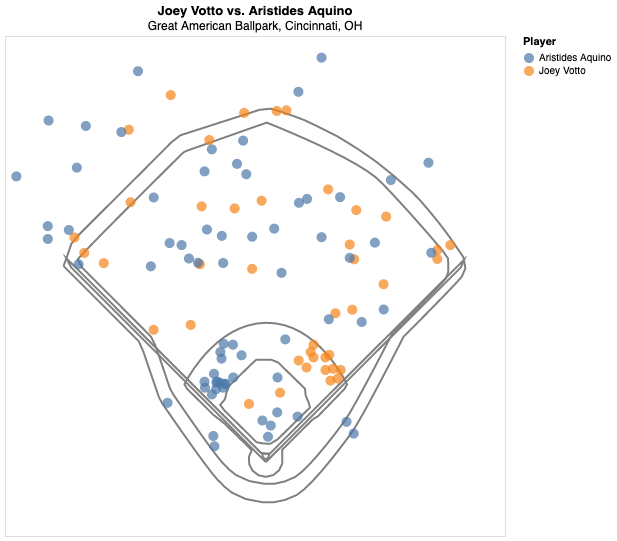
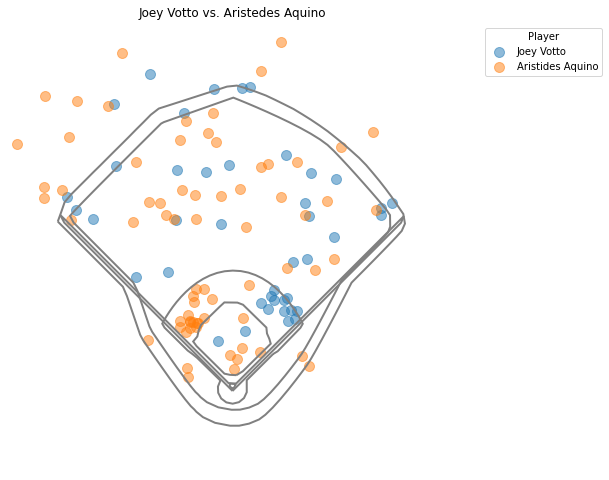
Remove altair and use pyplot (#183)
* Remove altair and use pyplot by default

* Raise possible statcast errors

* Check single games for errors too

diff --git a/pybaseball/plotting.py b/pybaseball/plotting.py
@@ -1,126 +1,168 @@
-import altair as alt
-import pandas as pd
 from pathlib import Path
+from typing import List, Optional
+import warnings
+
+from matplotlib import axes
+from matplotlib import patches
+import matplotlib.path
 import matplotlib.pyplot as plt
 import numpy as np
-from typing import Optional, Tuple
 import pandas as pd
 
-
 CUR_PATH = Path(__file__).resolve().parent
-STADIUM_COORDS = pd.read_csv(
-    Path(CUR_PATH, 'data', 'mlbstadiums.csv'), index_col=0
-)
+STADIUM_COORDS = pd.read_csv(Path(CUR_PATH, 'data', 'mlbstadiums.csv'), index_col=0)
+
 # transform over x axis
 STADIUM_COORDS['y'] *= -1
 
 
-def plot_stadium(team):
+def plot_stadium(team: str, title: Optional[str] = None, width: Optional[int] = None,
+                 height: Optional[int] = None, axis: Optional[axes.Axes] = None) -> axes.Axes:
     """
-    Plot the outline of the specified team's stadium using MLBAM coordinates
+    Plot the outline of the specified team's stadium using MLBAM coordinates (using pyplot)
 
-    Parameters
-    ----------
-    team: name of team whose stadium you want plotted
+    
+    Args:
+        team: (str)
+            Team whose stadium will be plotted
+        title: (str), default = name of team
+            Optional: Title of plot
+        width: (int), default = 5 inches
+            Optional: Width of plot
+        height: (int), default = 5 inches
+            Optional: Height of plot
+        axis: (matplotlib.axis.Axes), default = None
+            Optional: Axes to plot the stadium against. If None, a new Axes will be created
+
+    Returns:
+        A matplotlib.axes.Axes object that was used to generate the stadium render
     """
     coords = STADIUM_COORDS[STADIUM_COORDS['team'] == team.lower()]
-    name = list(coords['name'])[0]
-    location = list(coords['location'])[0]
-    title = {'text': [name], 'subtitle': [location]}
-    if team == 'generic':
-        title = 'Generic Stadium'
-    stadium = alt.Chart(coords, title=title).mark_line().encode(
-        x=alt.X('x', axis=None, scale=alt.Scale(zero=True)),
-        y=alt.Y('y', axis=None, scale=alt.Scale(zero=True)),
-        color=alt.Color(
-            'segment', scale=alt.Scale(range=['grey']), legend=None
-        ),
-        order='segment'
-    )
 
-    return stadium
+    if not axis:
+        name = list(coords['name'])[0]
+
+        stadium = plt.figure()
+        if width is not None and height is not None:
+            stadium.set_size_inches(width / stadium.dpi, height / stadium.dpi)
+        else:
+            stadium.set_size_inches(5, 5)
+        axis = stadium.add_axes([0.0, 0.0, 1.0, 1.0], frameon=False, aspect=1)  # Centering
+
+        axis.set_xlim(0, 250)
+        axis.set_ylim(-250, 0)
+
+        axis.set_xticks([])
+        axis.set_yticks([])
+
+    segments = set(coords['segment'])
+
+    for segment in segments:
+        segment_verts = coords[coords['segment'] == segment][['x', 'y']]
+        path = matplotlib.path.Path(segment_verts)
+        patch = patches.PathPatch(path, facecolor='None', edgecolor='grey', lw=2)
+        axis.add_patch(patch)
+
+    if title is None:
+        _title = name
+        if team == 'generic':
+            _title = 'Generic Stadium'
+
+        plt.title(_title)
+    else:
+        plt.title(title)
+
+    return axis
 
 
-def spraychart(data, team_stadium, title='', tooltips=[], size=100,
-               colorby='events', legend_title='', width=500, height=500):
+def spraychart(data: pd.DataFrame, team_stadium: str, title: str = '', tooltips: Optional[List['str']] = None,  # pylint: disable=too-many-arguments
+               size: int = 100, colorby: str = 'events', legend_title: str = '', width: int = 500,
+               height: int = 500) -> axes.Axes:
     """
     Produces a spraychart using statcast data overlayed on specified stadium
 
-    Parameters
-    ----------
-    data: statcast batter data
-    team_stadium: team whose stadium the hits will be overlaid on
-    title: title of plot
-    tooltips: list of variables in data to include as tooltips
-    size: size of marks on plot
-    colorby: which category to color the mark with. Events or player name.
-           must be 'events' or 'player'
-    legend_title: optional title for the legend
-    width: width of plot
-    height: height of plot
+    
+    Args:
+        data: (pandas.DataFrame)
+            StatCast pandas.DataFrame of StatCast batter data
+        team_stadium: (str)
+            Team whose stadium the hits will be overlaid on
+        title: (str), default = ''
+            Optional: Title of plot
+        tooltips: (List[str]), default = None
+            Optional: List of variables in data to include as tooltips (Deprecated)
+        size: (int), default = 100
+            Optional: Size of hit circles on plot
+        colorby: (str), default = 'events'
+            Optional: Which category to color the mark with. 'events','player', or a column within data
+        legend_title: (str), default = based on colorby
+            Optional: Title for the legend
+        width: (int), default = 500
+            Optional: Width of plot (not counting the legend)
+        height: (int), default = 500
+            Optional: Height of plot
+
+    Returns:
+        A matplotlib.axes.Axes object that was used to generate the stadium render and the spraychart
     """
 
     # pull stadium plot to overlay hits on
-    base = plot_stadium(team_stadium)
-    if team_stadium != 'generic':
-        _title = {
-            'text': [title],
-            'subtitle': [
-                f'{base.title["text"][0]}, {base.title["subtitle"][0]}'
-            ]
-        }
-    else:
-        _title = {
-            'text': [title],
-            'subtitle': ['Generic Stadium']
-        }
-    # remove stadium plot title
-    base.title = ''
+    base = plot_stadium(team_stadium, title, width-50, height)
+
     # only plot pitches where something happened
-    sub_data = data[data['events'].notna()].copy()
+    sub_data = data.copy().reset_index(drop=True)
+    sub_data = sub_data[sub_data['events'].notna()][sub_data['hc_x'].notna()][sub_data['hc_y'].notna()]
     if colorby == 'events':
         sub_data['event'] = sub_data['events'].str.replace('_', ' ').str.title()
         color_label = 'event'
-        legend_title = 'Outcome'
+        if not legend_title:
+            legend_title = 'Outcome'
     elif colorby == 'player':
         color_label = 'player_name'
-        legend_title = 'Player'
+        if not legend_title:
+            legend_title = 'Player'
     else:
         color_label = colorby
+        if not legend_title:
+            legend_title = colorby
+
     # scatter plot of hits
-    scatter = alt.Chart(sub_data, title=_title).mark_circle(size=size).encode(
-        x=alt.X('hc_x:Q', axis=None, scale=alt.Scale(zero=True)),
-        y=alt.Y('y:Q', axis=None, scale=alt.Scale(zero=True)),
-        color=alt.Color(
-            color_label, legend=alt.Legend(title=legend_title)
-        )
-    ).transform_calculate(
-        y='datum.hc_y * -1'
-    )
+    scatters = []
+    for color in sub_data[color_label].unique():
+        color_sub_data = sub_data[sub_data[color_label] == color]
+        scatters.append(base.scatter(
+            color_sub_data["hc_x"], color_sub_data['hc_y'].mul(-1), size, label=color, alpha=0.5
+        ))
+
     if tooltips:
-        scatter = scatter.encode(tooltip=tooltips)
+        warnings.warn(
+            "Tooltips are disabled in the pyplot version of spraychart and will be removed in the future",
+            category=DeprecationWarning
+        )
 
-    plot = alt.layer(base, scatter).resolve_scale(color='independent')
-    plot.width = width
-    plot.height = height
-    del sub_data
+    plt.legend(handles=scatters, title=legend_title, bbox_to_anchor=(1.05, 1), loc='upper left')
 
-    return plot
+    plt.draw()
+
+    plt.show()
+
+    return base
 
 
-def plot_bb_profile(df: pd.DataFrame, parameter: Optional[str] = "launch_angle"):
+def plot_bb_profile(df: pd.DataFrame, parameter: Optional[str] = "launch_angle") -> None:
     """Plots a given StatCast parameter split by bb_type
 
     Args:
-        df (pd.DataFrame): StatCast pd.DataFrame (retrieved through statcast, statcast_batter, etc)
-        parameter (Optional[str], optional): Parameter to plot. Defaults to "launch_angle".
+        df: (pandas.DataFrame)
+            pandas.DataFrame of StatCast batter data (retrieved through statcast, statcast_batter, etc)
+        parameter: (str), default = 'launch_angle'
+            Optional: Parameter to plot
     """
 
     bb_types = df["bb_type"].dropna().unique()
-    
+
     for bb_type in bb_types:
         df_skimmed = df[df.bb_type == bb_type]
         bins = np.arange(df_skimmed[parameter].min(), df_skimmed[parameter].max(), 2)
-        plt.hist(df_skimmed[parameter], bins=bins, alpha=0.5, label=bb_type.replace("_"," ").capitalize())
+        plt.hist(df_skimmed[parameter], bins=bins, alpha=0.5, label=bb_type.replace("_", " ").capitalize())
         plt.tick_params(labelsize=12)
-

diff --git a/pybaseball/statcast.py b/pybaseball/statcast.py
@@ -16,6 +16,8 @@ _SC_SINGLE_GAME_REQUEST = "/statcast_search/csv?all=true&type=details&game_pk={g
 _SC_SMALL_REQUEST = "/statcast_search/csv?all=true&hfPT=&hfAB=&hfBBT=&hfPR=&hfZ=&stadium=&hfBBL=&hfNewZones=&hfGT=R%7CPO%7CS%7C=&hfSea=&hfSit=&player_type=pitcher&hfOuts=&opponent=&pitcher_throws=&batter_stands=&hfSA=&game_date_gt={start_dt}&game_date_lt={end_dt}&team={team}&position=&hfRO=&home_road=&hfFlag=&metric_1=&hfInn=&min_pitches=0&min_results=0&group_by=name&sort_col=pitches&player_event_sort=h_launch_speed&sort_order=desc&min_abs=0&type=details&"
 # _MAX_SC_RESULTS = 40000
 
+class StatcastException(Exception):
+    pass
 
 @cache.df_cache(expires=365)
 def _small_request(start_dt: date, end_dt: date, team: Optional[str] = None) -> pd.DataFrame:
@@ -23,6 +25,9 @@ def _small_request(start_dt: date, end_dt: date, team: Optional[str] = None) -> 
         _SC_SMALL_REQUEST.format(start_dt=str(start_dt), end_dt=str(end_dt), team=team if team else '')
     )
     if data is not None and not data.empty:
+        if 'error' in data.columns:
+            raise StatcastException(data['error'].values[0])
+
         data = data.sort_values(
             ['game_date', 'game_pk', 'at_bat_number', 'pitch_number'],
             ascending=False
@@ -109,6 +114,12 @@ def statcast_single_game(game_pk: Union[str, int]) -> pd.DataFrame:
     data = statcast_ds.get_statcast_data_from_csv_url(
         _SC_SINGLE_GAME_REQUEST.format(game_pk=game_pk)
     )
+
+    if data is None or data.empty:
+        return None
+
+    if 'error' in data.columns:
+        raise StatcastException(data['error'].values[0])
 
     return data.sort_values(
         ['game_date', 'game_pk', 'at_bat_number', 'pitch_number'],

diff --git a/tests/integration/pybaseball/test_statcast_batter.py b/tests/integration/pybaseball/test_statcast_batter.py
@@ -31,13 +31,15 @@ def test_statcast_batter() -> None:
     assert len(result) == 2418
 
 def test_statcast_batter_expected_stats() -> None:
-    result: pd.DataFrame = statcast_batter_expected_stats(2019)
+    min_pa = 250
+    result: pd.DataFrame = statcast_batter_expected_stats(2019, min_pa)
 
     assert result is not None
     assert not result.empty
 
     assert len(result.columns) == 15
-    assert len(result) == 250
+    assert len(result) > 0
+    assert len(result[result['pa'] < min_pa]) == 0
 
 def test_statcast_batter_percentile_ranks() -> None:
     result: pd.DataFrame = statcast_batter_percentile_ranks(2019)

diff --git a/tests/pybaseball/conftest.py b/tests/pybaseball/conftest.py
@@ -120,8 +120,12 @@ def get_data_file_contents(data_dir: str) -> Callable[[str], str]:
             ARGUMENTS:
             filename    : str : the name of the file within the tests data directory to get the contents of
         """
-        with open(os.path.join(data_dir, filename)) as _file:
-            return _file.read()
+        with open(os.path.join(data_dir, filename), 'rb') as _file:
+            data = _file.read()
+            try:
+                return data.decode('ascii')
+            except UnicodeDecodeError:
+                return data.decode('utf-8')
 
     return get_contents
 

diff --git a/pybaseball/split_stats.py b/pybaseball/split_stats.py
@@ -55,7 +55,7 @@ def get_player_info(playerid: str, soup: bs.BeautifulSoup = None) -> Dict:
             r = InfoRegex.findall(str(ptags[j]))
             # This loop cleans up the text found in the outer loop and removes non alphanumeric characters.
             for k in range(len(r)):
-                pattern = re.compile('[\W_]+')
+                pattern = re.compile(r'[\W_]+')
                 strings = pattern.sub(' ', r[k])
                 if strings and strings != ' ':
                     fv.append(strings)

diff --git a/setup.py b/setup.py
@@ -82,11 +82,9 @@ setup(
                       'lxml>=4.2.1',
                       'pyarrow>=1.0.1',
                       'pygithub>=1.51',
-                      'altair>=4.0.0',
                       'scipy>=1.4.0',
                       'matplotlib>=2.0.0',
                       'tqdm>=4.50.0',
-                      'altair-saver'
                       ],
 
     # List additional groups of dependencies here (e.g. development

diff --git a/pybaseball/standings.py b/pybaseball/standings.py
@@ -10,7 +10,6 @@ from .utils import most_recent_season
 
 def get_soup(year: int) -> BeautifulSoup:
     url = f'http://www.baseball-reference.com/leagues/MLB/{year}-standings.shtml'
-    print(url)
     s = requests.get(url).content
     return BeautifulSoup(s, "lxml")
 

diff --git a/README.md b/README.md
@@ -142,6 +142,19 @@ Gathering player lookup table. This may take a moment.
 [2 rows x 78 columns]
 ```
 
+### A note on Statcast data
+
+Statcast data is subject to change (even for prior seasons):
+
+<div>
+   <blockquote class="twitter-tweet">
+      <p lang="en" dir="ltr">
+         Each season has 700,000+ pitches, and is subject to update. You should code accordingly.
+      </p>&mdash; Tangotiger (@tangotiger)
+      <a href="https://twitter.com/tangotiger/status/1362064972025634821?ref_src=twsrc%5Etfw">February 17, 2021</a>
+   </blockquote>
+</div>
+
 ## Pitching Stats: pitching stats for players across multiple seasons, single seasons, or during a specified time period
 
 This library contains two main functions for obtaining pitching data. For league-wide season-level pitching data, use the function `pitching_stats(start_season, end_season)`. This will return one row per player per season, and provide all metrics made available by FanGraphs.

diff --git a/docs/plotting.md b/docs/plotting.md
@@ -51,8 +51,6 @@ Plot the outline of a specified team's stadium using MLBAM coordinates
 
 `title`: title for your chart
 
-`tooltips`: list of tooltips to include in the chart
-
 `size`: size of the marks on the spraychart
 
 `colorby`: which category in the data to use when color-coding the marks. By default will use the `events` variable. If there are multiple players in your data, use `player` to give each player their own unique color.
